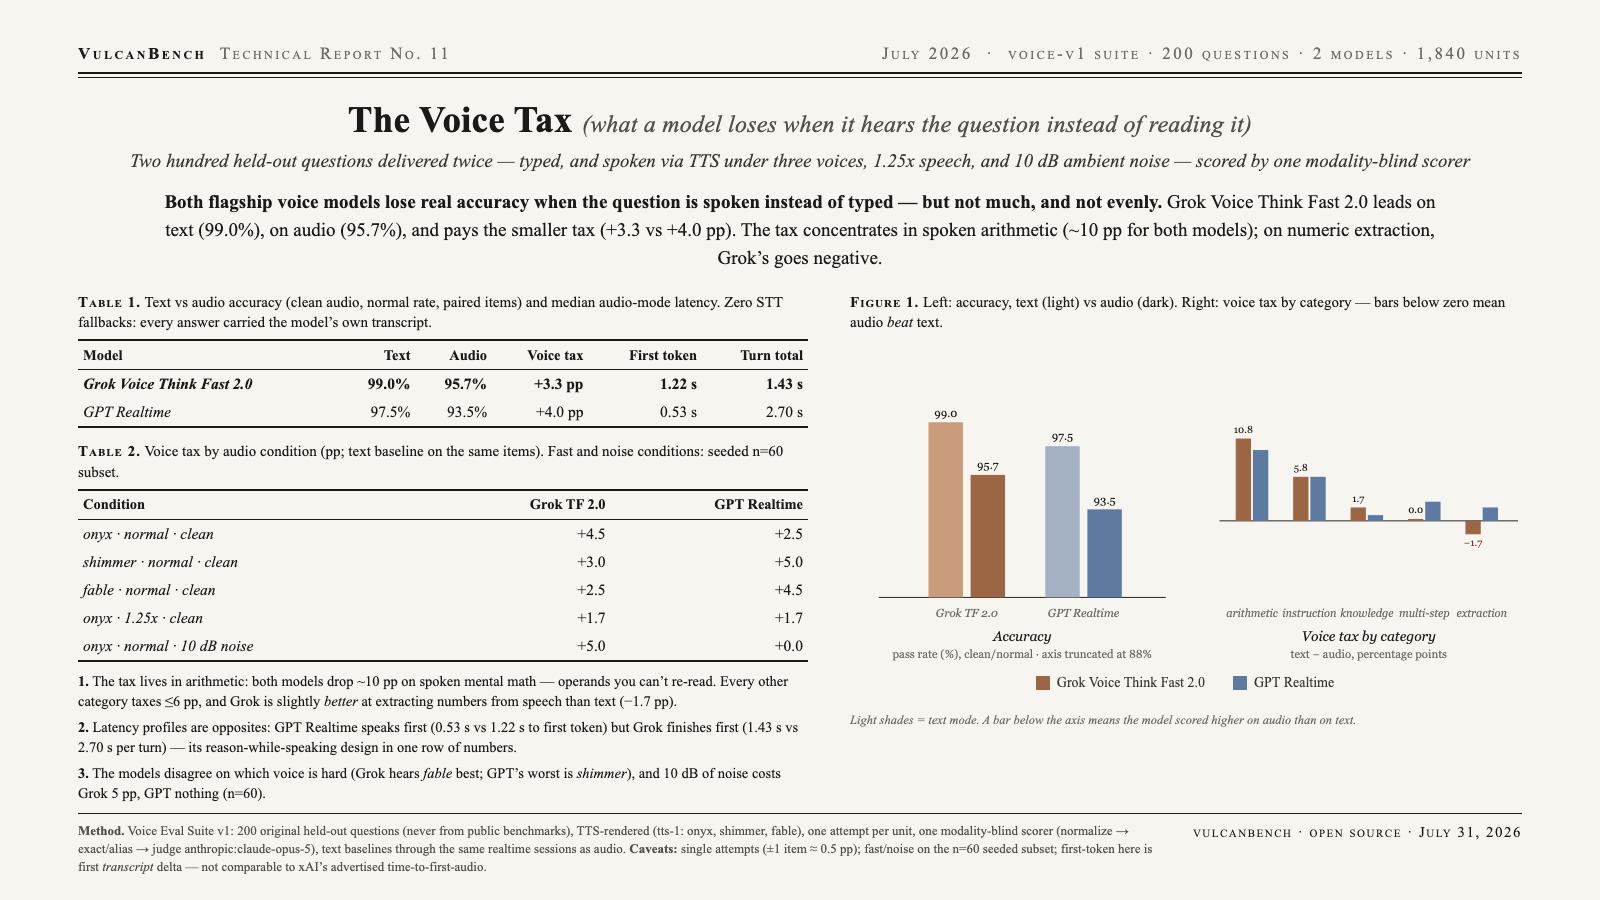
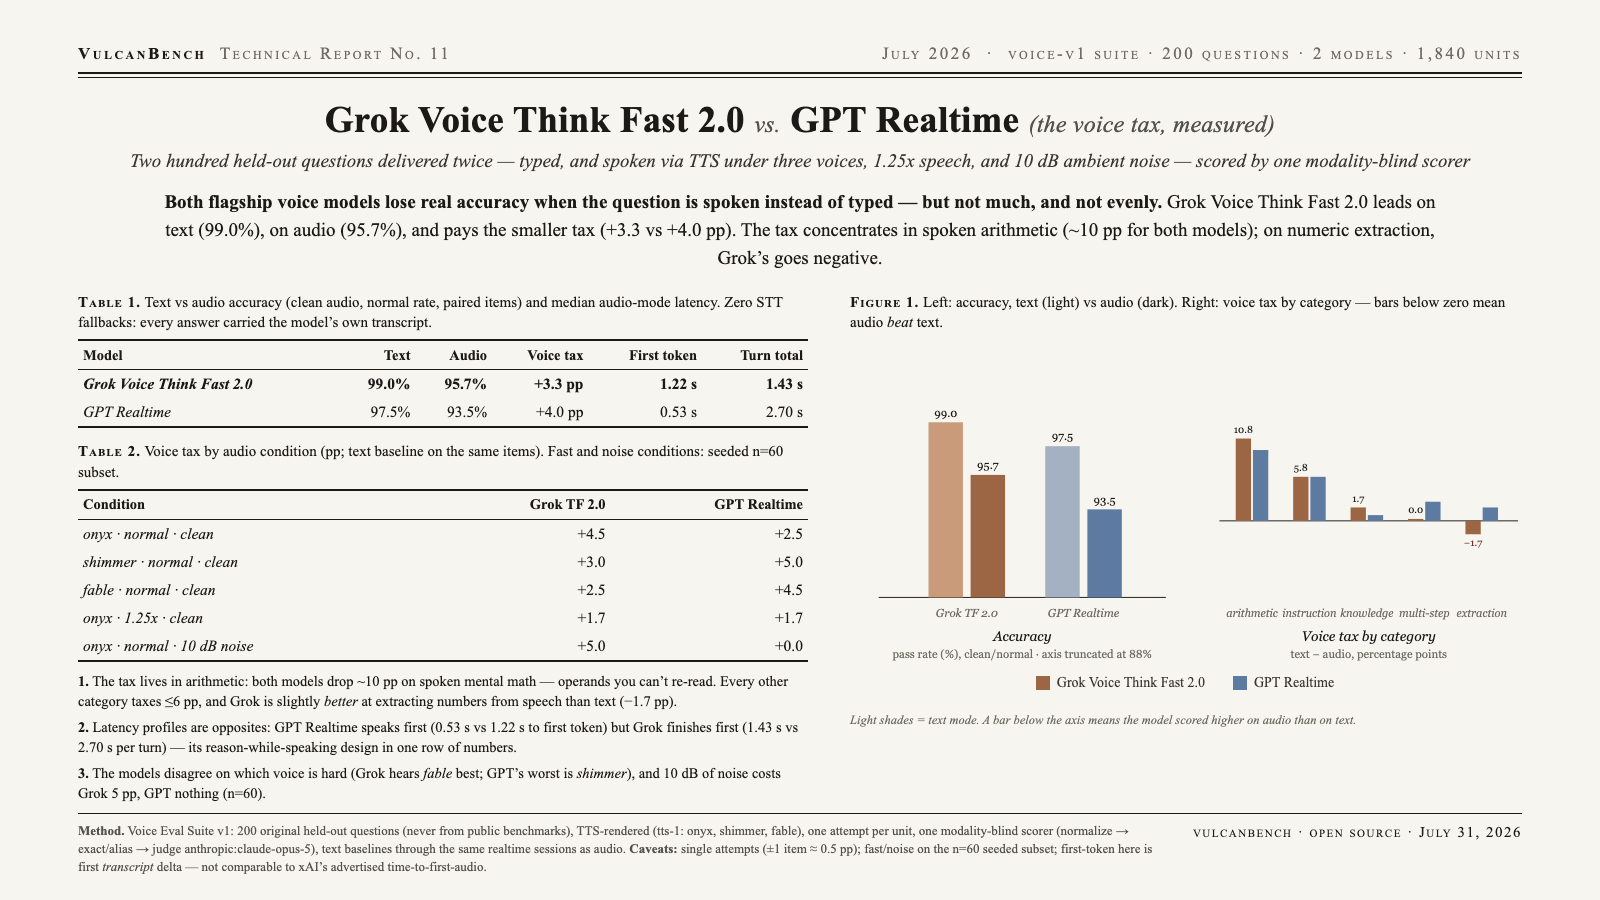
Report 11 card: model-first headline to match the site retitle

Changed region(s): [[0.1875, 0.0933, 0.8125, 0.1556]]

diff --git a/docs/results/voice-v1-2026-07/card.html b/docs/results/voice-v1-2026-07/card.html
@@ -42,7 +42,7 @@ tbody tr.win td { font-weight: 700; }
   <div class="masthead"><span><b>VulcanBench</b> &nbsp;Technical Report No. 11</span><span>July 2026 &nbsp;&middot;&nbsp; voice-v1 suite &middot; 200 questions &middot; 2 models &middot; 1,840 units</span></div>
   <div class="rule2"></div><div class="rule1"></div>
 
-  <h1>The Voice Tax <span class="eff">(what a model loses when it hears the question instead of reading it)</span></h1>
+  <h1>Grok Voice Think Fast 2.0 <span class="eff">vs.</span> GPT Realtime <span class="eff">(the voice tax, measured)</span></h1>
   <div class="authors">Two hundred held-out questions delivered twice &mdash; typed, and spoken via TTS under three voices, 1.25x speech, and 10 dB ambient noise &mdash; scored by one modality-blind scorer</div>
 
   <div class="abstract">
